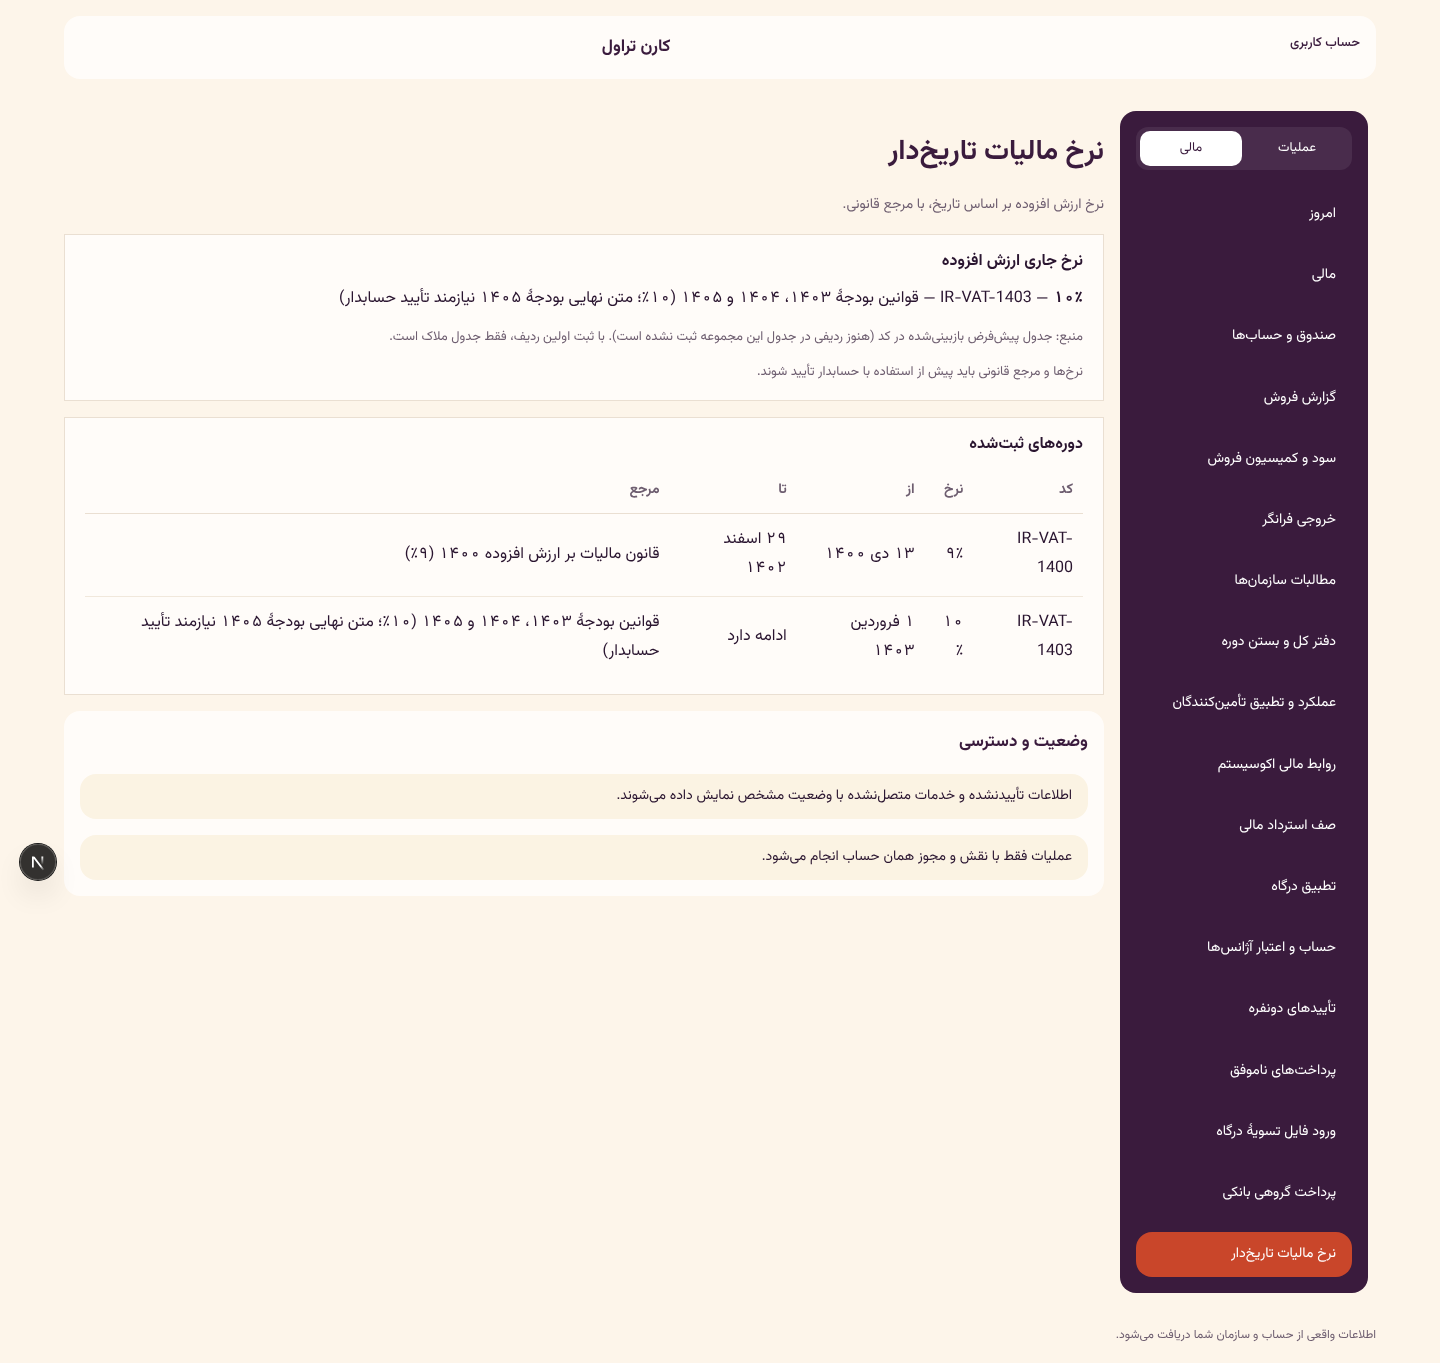
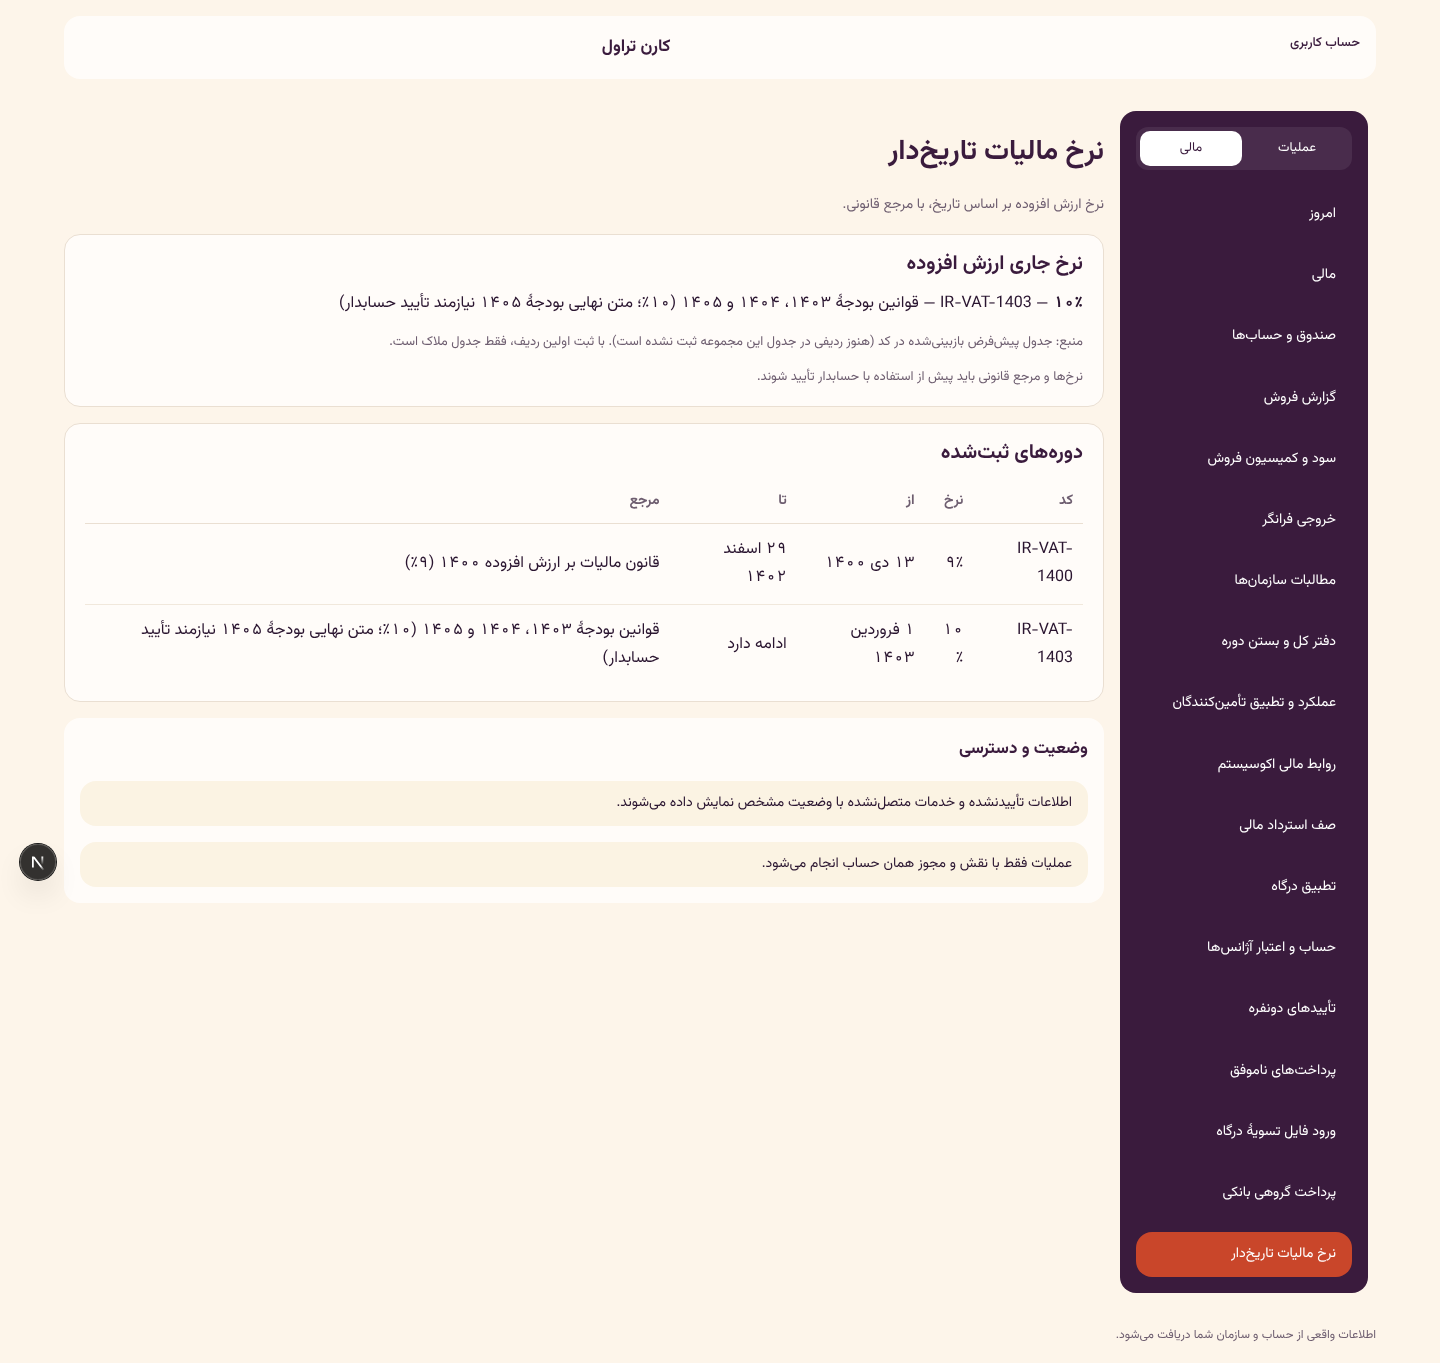
fix(panels): wrap Phase 1-rest pages in .as tokens (button contrast); role-smoke uses an org manager not mutated by other specs
Claude-Session: https://claude.ai/code/session_013GiGkfk4o7SUWJ8n5NgFoB

diff --git a/e2e/panels/role-smoke.spec.ts b/e2e/panels/role-smoke.spec.ts
@@ -13,7 +13,8 @@ type Session = { access_token: string; refresh_token: string; token_type: string
 
 const ROLES: Record<string, { email: string; pages: string[] }> = {
   customer: { email: 'employee@aftab.test', pages: ['/account', '/account/bookings', '/account/refunds', '/account/price-changes', '/panel/today'] },
-  organization: { email: 'org-admin@aftab.test', pages: ['/organization', '/organization/requests', '/organization/passengers'] },
+  // welfare@ (an organization manager) because charter-block.spec turns org-admin@ into an agency partner on a shared e2e DB
+  organization: { email: 'welfare@aftab.test', pages: ['/organization', '/organization/requests', '/organization/passengers'] },
   agency: { email: 'agency@aftab.test', pages: ['/agency', '/agency/credit', '/agency/passengers'] },
   supplier: { email: 'supplier@aftab.test', pages: ['/supplier', '/supplier/fulfillment'] },
   ops: { email: 'backoffice@aftab.test', pages: ['/panel/today', '/backoffice/queues/service_requests', '/backoffice/price-changes', '/backoffice/agencies'] },
@@ -65,7 +66,7 @@ for (const [role, { email, pages }] of Object.entries(ROLES)) {
       const serious = axe.violations.filter(v => v.impact === 'serious' || v.impact === 'critical');
       findings[`${role} ${path}`] = axe.violations.map(v => ({ id: v.id, impact: v.impact, nodes: v.nodes.length }));
       expect(axe.violations.filter(v => v.impact === 'critical').map(v => v.id), `${path} critical a11y`).toEqual([]);
-      if (NEW_PAGES.has(path)) expect(serious.map(v => `${v.id}×${v.nodes.length}`), `${path} serious a11y`).toEqual([]);
+      if (NEW_PAGES.has(path)) expect(serious.map(v => `${v.id}: ${v.nodes.map(n => `${n.target.join(' ')} — ${n.failureSummary ?? ''}`).join(' | ')}`), `${path} serious a11y`).toEqual([]);
       if (SHOTS) await page.screenshot({ path: `${SHOTS}/${role}${path.replace(/\//g, '_')}.png`, fullPage: true });
     }
     expect(csp, 'CSP violations').toEqual([]);

diff --git a/components/panel/phase1/Phase1Rest.tsx b/components/panel/phase1/Phase1Rest.tsx
@@ -27,7 +27,7 @@ export function TodayPage() {
   const home = homeFor(role);
   const area: Area = ['backoffice_expert'].includes(role) ? 'ops' : role === 'finance_operator' ? 'finance' : ['tenant_admin', 'platform_admin'].includes(role) ? 'admin'
     : home.startsWith('/agency') ? 'agency' : home.startsWith('/organization') || home.startsWith('/employee') ? 'organization' : home.startsWith('/supplier') ? 'supplier' : 'customer';
-  return <PanelShell area={area} title="امروز" intro="کارهای منتظر شما، به ترتیب فوریت. فقط صفهایی که نقش شما روی آنها کار میکند."><TodayBody/></PanelShell>;
+  return <PanelShell area={area} title="امروز" intro="کارهای منتظر شما، به ترتیب فوریت. فقط صفهایی که نقش شما روی آنها کار میکند."><div className="as"><TodayBody/></div></PanelShell>;
 }
 function TodayBody() {
   const {state, reload} = useLoad<{items: TodayItem[]; approvals: McRow[]; generated_at: string}>('/panel/today');

diff --git a/app/finance/approvals/page.tsx b/app/finance/approvals/page.tsx
@@ -1,4 +1,4 @@
 import {PanelShell} from '../../../components/panel/PanelKit';
 import {ApprovalsPage} from '../../../components/panel/phase1/Phase1Rest';
 export const metadata = {title: 'تأییدهای دونفره', robots: {index: false}};
-export default function Page() {return <PanelShell area="admin" title="تأییدهای دونفره" intro="درخواستهایی که نفر دوم باید تأیید یا رد کند. ثبتکننده نمیتواند درخواست خودش را تأیید کند."><ApprovalsPage/></PanelShell>;}
+export default function Page() {return <PanelShell area="admin" title="تأییدهای دونفره" intro="درخواستهایی که نفر دوم باید تأیید یا رد کند. ثبتکننده نمیتواند درخواست خودش را تأیید کند."><div className="as"><ApprovalsPage/></div></PanelShell>;}

diff --git a/app/finance/settlement-import/page.tsx b/app/finance/settlement-import/page.tsx
@@ -1,4 +1,4 @@
 import {PanelShell} from '../../../components/panel/PanelKit';
 import {SettlementImport} from '../../../components/panel/phase1/Phase1Rest';
 export const metadata = {title: 'ورود فایل تسویهٔ درگاه', robots: {index: false}};
-export default function Page() {return <PanelShell area="admin" title="ورود فایل تسویهٔ درگاه" intro="فایل تسویهٔ درگاه را بارگذاری کنید تا با پرداختهای ثبتشده تطبیق داده شود."><SettlementImport/></PanelShell>;}
+export default function Page() {return <PanelShell area="admin" title="ورود فایل تسویهٔ درگاه" intro="فایل تسویهٔ درگاه را بارگذاری کنید تا با پرداختهای ثبتشده تطبیق داده شود."><div className="as"><SettlementImport/></div></PanelShell>;}

diff --git a/app/organization/passengers/page.tsx b/app/organization/passengers/page.tsx
@@ -1,4 +1,4 @@
 import {PanelShell} from '../../../components/panel/PanelKit';
 import {OrgPassengers} from '../../../components/panel/phase1/Phase1Rest';
 export const metadata = {title: 'مسافران سازمان', robots: {index: false}};
-export default function Page() {return <PanelShell area="organization" title="مسافران سازمان" intro="مسافران ذخیرهشدهٔ سازمان برای رزرو سریع؛ شمارههای هویتی در فهرست ماسک میشوند."><OrgPassengers/></PanelShell>;}
+export default function Page() {return <PanelShell area="organization" title="مسافران سازمان" intro="مسافران ذخیرهشدهٔ سازمان برای رزرو سریع؛ شمارههای هویتی در فهرست ماسک میشوند."><div className="as"><OrgPassengers/></div></PanelShell>;}

diff --git a/app/agency/passengers/page.tsx b/app/agency/passengers/page.tsx
@@ -1,4 +1,4 @@
 import {PanelShell} from '../../../components/panel/PanelKit';
 import {AgencyPassengers} from '../../../components/panel/phase1/Phase1Rest';
 export const metadata = {title: 'مسافران آژانس', robots: {index: false}};
-export default function Page() {return <PanelShell area="agency" title="مسافران آژانس" intro="مسافران ذخیرهشدهٔ آژانس برای رزرو سریع؛ شمارههای هویتی در فهرست ماسک میشوند."><AgencyPassengers/></PanelShell>;}
+export default function Page() {return <PanelShell area="agency" title="مسافران آژانس" intro="مسافران ذخیرهشدهٔ آژانس برای رزرو سریع؛ شمارههای هویتی در فهرست ماسک میشوند."><div className="as"><AgencyPassengers/></div></PanelShell>;}

diff --git a/app/account/price-changes/page.tsx b/app/account/price-changes/page.tsx
@@ -1,4 +1,4 @@
 import {PanelShell} from '../../../components/panel/PanelKit';
 import {CustomerPriceChanges} from '../../../components/panel/phase1/Phase1Rest';
 export const metadata = {title: 'تغییر قیمت رزرو', robots: {index: false}};
-export default function Page() {return <PanelShell area="customer" title="تغییر قیمت رزرو" intro="اگر مبلغ رزروی تغییر کند، تا تأیید شما هیچ مبلغی کسر یا پرداخت نمیشود."><CustomerPriceChanges/></PanelShell>;}
+export default function Page() {return <PanelShell area="customer" title="تغییر قیمت رزرو" intro="اگر مبلغ رزروی تغییر کند، تا تأیید شما هیچ مبلغی کسر یا پرداخت نمیشود."><div className="as"><CustomerPriceChanges/></div></PanelShell>;}

diff --git a/app/finance/bank-batches/page.tsx b/app/finance/bank-batches/page.tsx
@@ -1,4 +1,4 @@
 import {PanelShell} from '../../../components/panel/PanelKit';
 import {BankBatches} from '../../../components/panel/phase1/Phase1Rest';
 export const metadata = {title: 'پرداخت گروهی بانکی', robots: {index: false}};
-export default function Page() {return <PanelShell area="admin" title="پرداخت گروهی بانکی" intro="ساخت فایل واریز گروهی برای استردادهای بانکی، با تأیید نفر دوم مالی."><BankBatches/></PanelShell>;}
+export default function Page() {return <PanelShell area="admin" title="پرداخت گروهی بانکی" intro="ساخت فایل واریز گروهی برای استردادهای بانکی، با تأیید نفر دوم مالی."><div className="as"><BankBatches/></div></PanelShell>;}

diff --git a/app/finance/failed-payments/page.tsx b/app/finance/failed-payments/page.tsx
@@ -1,4 +1,4 @@
 import {PanelShell} from '../../../components/panel/PanelKit';
 import {FailedPayments} from '../../../components/panel/phase1/Phase1Rest';
 export const metadata = {title: 'پرداختهای ناموفق', robots: {index: false}};
-export default function Page() {return <PanelShell area="admin" title="پرداختهای ناموفق" intro="پرداختهایی که درگاه رد کرد یا مشتری رها کرد، با رزرو مربوط."><FailedPayments/></PanelShell>;}
+export default function Page() {return <PanelShell area="admin" title="پرداختهای ناموفق" intro="پرداختهایی که درگاه رد کرد یا مشتری رها کرد، با رزرو مربوط."><div className="as"><FailedPayments/></div></PanelShell>;}

diff --git a/app/backoffice/price-changes/page.tsx b/app/backoffice/price-changes/page.tsx
@@ -1,4 +1,4 @@
 import {PanelShell} from '../../../components/panel/PanelKit';
 import {OpsPriceChanges} from '../../../components/panel/phase1/Phase1Rest';
 export const metadata = {title: 'پیشنهاد تغییر قیمت', robots: {index: false}};
-export default function Page() {return <PanelShell area="admin" title="پیشنهاد تغییر قیمت" intro="پیشنهاد عملیات، تأیید مالی و پذیرش مشتری؛ بدون کسر خودکار."><OpsPriceChanges/></PanelShell>;}
+export default function Page() {return <PanelShell area="admin" title="پیشنهاد تغییر قیمت" intro="پیشنهاد عملیات، تأیید مالی و پذیرش مشتری؛ بدون کسر خودکار."><div className="as"><OpsPriceChanges/></div></PanelShell>;}

diff --git a/app/finance/tax-rates/page.tsx b/app/finance/tax-rates/page.tsx
@@ -1,4 +1,4 @@
 import {PanelShell} from '../../../components/panel/PanelKit';
 import {TaxRates} from '../../../components/panel/phase1/Phase1Rest';
 export const metadata = {title: 'نرخ مالیات تاریخدار', robots: {index: false}};
-export default function Page() {return <PanelShell area="admin" title="نرخ مالیات تاریخدار" intro="نرخ ارزش افزوده بر اساس تاریخ، با مرجع قانونی."><TaxRates/></PanelShell>;}
+export default function Page() {return <PanelShell area="admin" title="نرخ مالیات تاریخدار" intro="نرخ ارزش افزوده بر اساس تاریخ، با مرجع قانونی."><div className="as"><TaxRates/></div></PanelShell>;}

diff --git a/app/admin/sla/page.tsx b/app/admin/sla/page.tsx
@@ -1,4 +1,4 @@
 import {PanelShell} from '../../../components/panel/PanelKit';
 import {SlaSettings} from '../../../components/panel/phase1/Phase1Rest';
 export const metadata = {title: 'SLA صف عملیات', robots: {index: false}};
-export default function Page() {return <PanelShell area="admin" title="SLA صف عملیات" intro="زمان هدف هر گام صف لغو، تغییر و استرداد."><SlaSettings/></PanelShell>;}
+export default function Page() {return <PanelShell area="admin" title="SLA صف عملیات" intro="زمان هدف هر گام صف لغو، تغییر و استرداد."><div className="as"><SlaSettings/></div></PanelShell>;}
